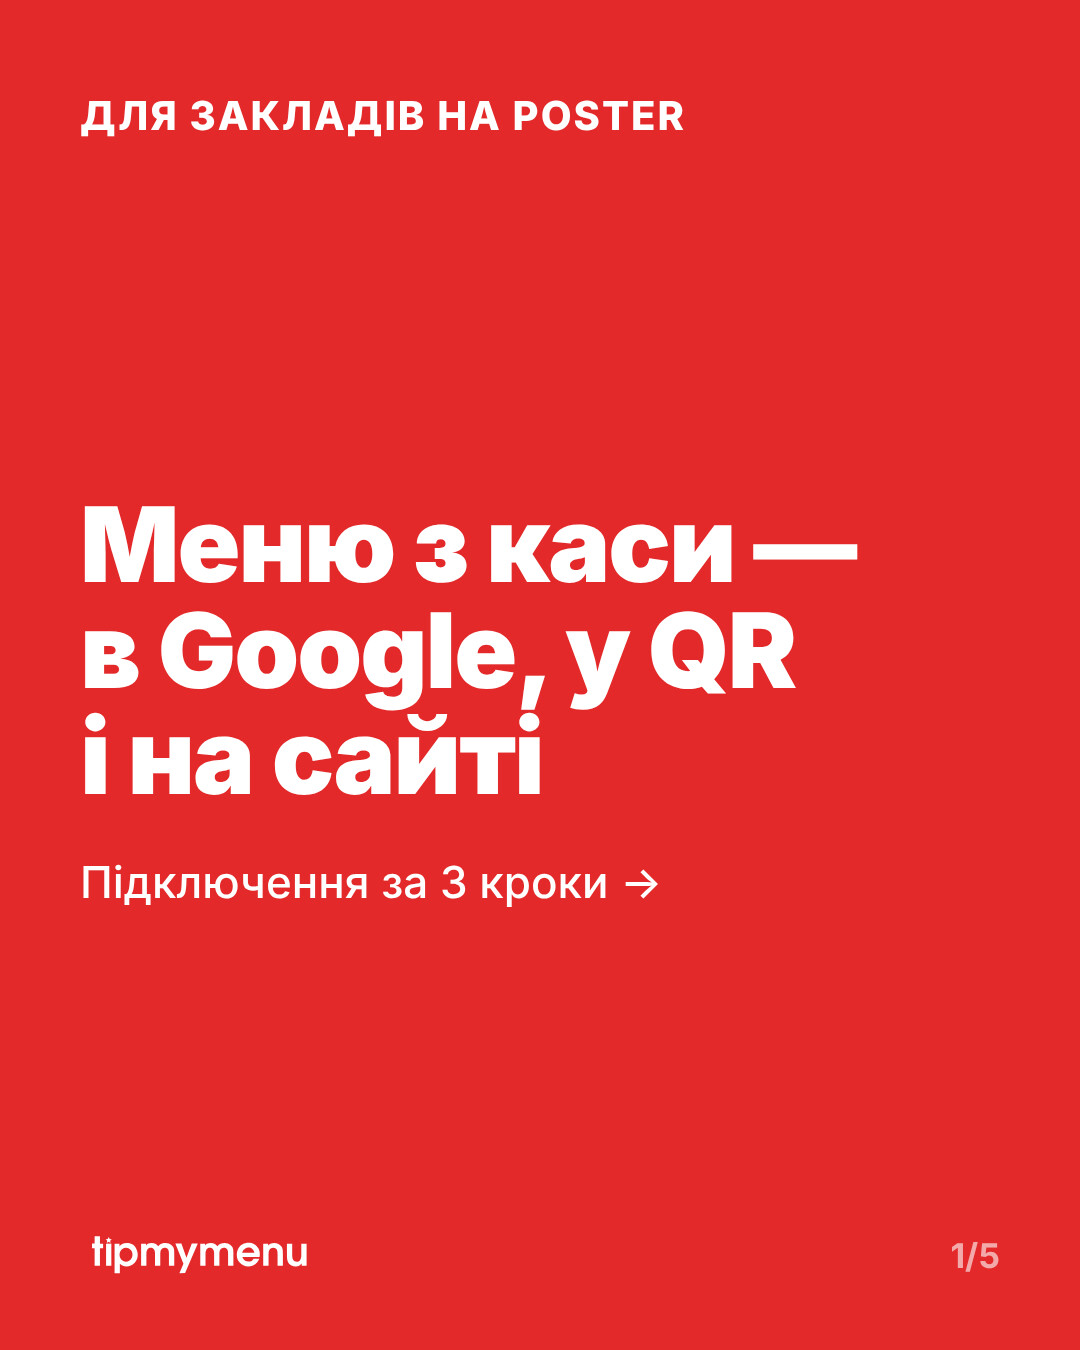
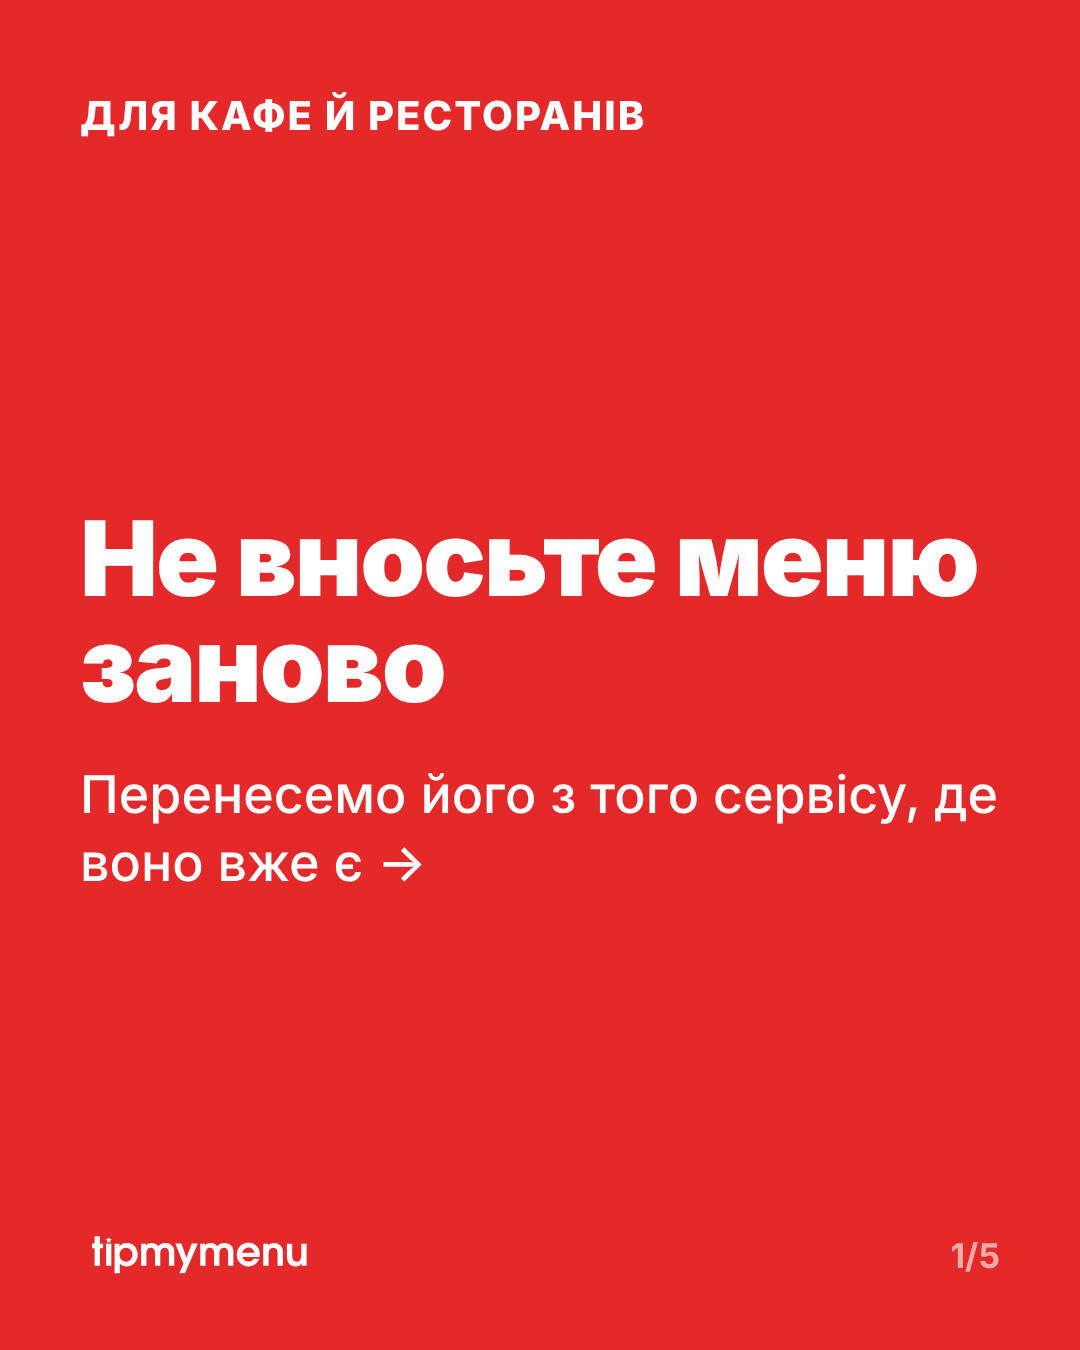
SMM: прибрано згадки Poster (застосунок ще не опубліковано) з постів 2.12, 15.12, 17.12
Claude-Session: https://claude.ai/code/session_013CniVCPpoLK9J42wSgnD7D

Changed region(s): [[0.0611, 0.3733, 0.9167, 0.6844], [0.1833, 0.0622, 0.6417, 0.1244], [0.5806, 0.6533, 0.6111, 0.6844]]

diff --git a/smm/media/2026-12/src/slides-w3.html b/smm/media/2026-12/src/slides-w3.html
@@ -38,15 +38,15 @@ ul{list-style:none;padding:0}li{font-size:46px;font-weight:600;margin:0 0 30px;l
 <div class="s d" id="w3-15-1"><p class="yel" style="font-weight:800;font-size:40px;letter-spacing:2px">ДЛЯ КАФЕ Й РЕСТОРАНІВ</p><div style="margin:auto 0"><h1>3 міфи про QR&#8209;меню</h1><p style="margin-top:44px;opacity:.85">через які заклади досі друкують меню, що застаріває за місяць&nbsp;→</p></div><img class="logo" src="site_logo.svg"><div class="n">1/5</div></div>
 <div class="s w" id="w3-15-2"><p class="red" style="font-size:52px;font-weight:900">❌ Міф 1</p><h2 style="margin-top:20px">«Гостям треба ставити застосунок»</h2><p class="yel" style="font-size:52px;font-weight:900;margin-top:90px;color:#1a7f37">✅ Насправді</p><p style="margin-top:20px;font-size:50px">Гість наводить камеру телефона на QR — і одразу бачить меню з фото й цінами. Без застосунків.</p><img class="logo" src="site_logo_dark.svg"><div class="n">2/5</div></div>
 <div class="s w" id="w3-15-3"><p class="red" style="font-size:52px;font-weight:900">❌ Міф 2</p><h2 style="margin-top:20px">«Це дорого»</h2><p style="font-size:52px;font-weight:900;margin-top:90px;color:#1a7f37">✅ Насправді</p><p style="margin-top:20px;font-size:50px">На TipMyMenu QR-меню безкоштовне. Табличку A6 для друку і наліпку «Ми на TipMyMenu» беріть у кабінеті.</p><img class="logo" src="site_logo_dark.svg"><div class="n">3/5</div></div>
-<div class="s w" id="w3-15-4"><p class="red" style="font-size:52px;font-weight:900">❌ Міф 3</p><h2 style="margin-top:20px">«Ціни все одно застаріють»</h2><p style="font-size:52px;font-weight:900;margin-top:90px;color:#1a7f37">✅ Насправді</p><p style="margin-top:20px;font-size:50px">Якщо ви працюєте в Poster — меню оновлюється з каси само: страви, ціни, фото. Стоп-лист можна вести з Telegram-бота.</p><img class="logo" src="site_logo_dark.svg"><div class="n">4/5</div></div>
+<div class="s w" id="w3-15-4"><p class="red" style="font-size:52px;font-weight:900">❌ Міф 3</p><h2 style="margin-top:20px">«Ціни все одно застаріють»</h2><p style="font-size:52px;font-weight:900;margin-top:90px;color:#1a7f37">✅ Насправді</p><p style="margin-top:20px;font-size:50px">Змінили ціну чи додали страву в кабінеті — оновилось усюди: на сторінці закладу, у QR-меню і на вашому сайті.</p><img class="logo" src="site_logo_dark.svg"><div class="n">4/5</div></div>
 <div class="s y" id="w3-15-5" style="justify-content:center"><h1 style="font-size:96px">Завантажте свій QR безкоштовно</h1><p style="margin:44px 0 60px">Сторінка закладу, QR на столи, меню для сайту і Google Maps</p><span class="pill" style="align-self:flex-start;font-size:38px">tipmymenu.com/uk/restaurants/about</span><img class="logo" src="site_logo_dark.svg"><div class="n">5/5</div></div>
 
-<!-- 17.12 Poster -->
-<div class="s r" id="w3-17-1"><p style="font-weight:800;font-size:40px;letter-spacing:2px">ДЛЯ ЗАКЛАДІВ НА POSTER</p><div style="margin:auto 0"><h1>Меню з&nbsp;каси — в&nbsp;Google, у&nbsp;QR і&nbsp;на&nbsp;сайті</h1><p style="margin-top:44px">Підключення за 3 кроки&nbsp;→</p></div><img class="logo" src="site_logo.svg"><div class="n">1/5</div></div>
-<div class="s y" id="w3-17-2"><div class="step">1</div><h2>Poster → Застосунки → TipMyMenu → «Встановити»</h2><p style="margin-top:30px">Дозвольте доступ до меню. Якщо закладів кілька — оберіть точку продажу.</p><img class="logo" src="site_logo_dark.svg"><div class="n">2/5</div></div>
-<div class="s y" id="w3-17-3"><div class="step">2</div><h2>Вкажіть назву, місто і&nbsp;телефон або Telegram</h2><p style="margin-top:30px">Протягом робочого дня ми створимо сторінку закладу з меню з каси й напишемо вам.</p><p style="margin-top:50px;font-size:38px;opacity:.75">Вже є сторінка на TipMyMenu? Кабінет → «Каса Poster» → «Підключити Poster».</p><img class="logo" src="site_logo_dark.svg"><div class="n">3/5</div></div>
-<div class="s y" id="w3-17-4"><div class="step">3</div><h2>Далі меню оновлюється саме</h2><ul style="margin-top:50px"><li>🆕 нові страви й фото</li><li>💸 змінені ціни</li><li>🙈 приховані позиції</li><li>🤖 стоп-лист — з Telegram-бота</li></ul><img class="logo" src="site_logo_dark.svg"><div class="n">4/5</div></div>
-<div class="s d" id="w3-17-5" style="justify-content:center"><h2 class="yel">Безпечно для каси</h2><p style="margin:36px 0 70px;font-size:48px">Застосунок лише читає меню й точки продажу. Замовлення, гроші й клієнтів не бачить і нічого в Poster не змінює.</p><span class="pill" style="align-self:flex-start;background:#ffb80e;color:#2b2a26;font-size:38px">tipmymenu.com/uk/restaurants/about</span><img class="logo" src="site_logo.svg"><div class="n">5/5</div></div>
+<!-- 17.12 перенесення меню -->
+<div class="s r" id="w3-17-1"><p style="font-weight:800;font-size:40px;letter-spacing:2px">ДЛЯ КАФЕ Й РЕСТОРАНІВ</p><div style="margin:auto 0"><h1>Не вносьте меню заново</h1><p style="margin-top:44px;font-size:52px">Перенесемо його з того сервісу, де воно вже є&nbsp;→</p></div><img class="logo" src="site_logo.svg"><div class="n">1/5</div></div>
+<div class="s y" id="w3-17-2"><div class="step">1</div><h2>Меню вже є в Expirenza, ChoiceQR, RestoApp чи&nbsp;ps.me?</h2><p style="margin-top:30px">Скопіюйте посилання на нього.</p><img class="logo" src="site_logo_dark.svg"><div class="n">2/5</div></div>
+<div class="s y" id="w3-17-3"><div class="step">2</div><h2>Вставте його в кабінеті TipMyMenu</h2><p style="margin-top:30px">Поле «Посилання на меню» — і бот візьме звідти страви, фото й ціни.</p><div class="ui"><p style="font-size:34px;opacity:.6;margin-bottom:16px">Посилання на меню</p><div class="hl" style="font-size:36px;word-break:break-all">https://expz.menu/…</div></div><img class="logo" src="site_logo_dark.svg"><div class="n">3/5</div></div>
+<div class="s y" id="w3-17-4"><div class="step">3</div><h2>Отримайте безкоштовно</h2><ul style="margin-top:50px"><li>🔎 сторінку закладу, яку знаходять у Google</li><li>📱 QR-меню на столи</li><li>💻 код меню для вашого сайту</li><li>📍 посилання для кнопки «Меню» в Google Maps</li></ul><img class="logo" src="site_logo_dark.svg"><div class="n">4/5</div></div>
+<div class="s d" id="w3-17-5" style="justify-content:center"><h2 class="yel">Меню ще немає ніде?</h2><p style="margin:36px 0 70px;font-size:48px">Додайте страви в кабінеті вручну — або напишіть нам, допоможемо.</p><span class="pill" style="align-self:flex-start;background:#ffb80e;color:#2b2a26;font-size:38px">tipmymenu.com/uk/restaurants/about</span><img class="logo" src="site_logo.svg"><div class="n">5/5</div></div>
 
 <!-- 18.12 українські 5,0 -->
 <div class="s" id="w3-18-1"><img class="photo" src="w3/deruny.jpg"><div class="shade"></div><div class="cap"><span class="tag">Київ · оцінки гостей</span><h1 style="color:#fff">5 українських страв з&nbsp;оцінкою 5,0&nbsp;⭐</h1><p style="margin-top:24px">План на вихідні&nbsp;→</p></div><img class="logo" src="site_logo.svg"><div class="n" style="color:#fff">1/5</div></div>

diff --git a/smm/media/2026-12/src/slides.html b/smm/media/2026-12/src/slides.html
@@ -28,7 +28,7 @@ ul{list-style:none;padding:0}li{font-size:46px;font-weight:600;margin:0 0 30px;l
 <div class="s d" id="p2s1"><p class="yel" style="font-weight:800;font-size:40px;letter-spacing:2px">ДЛЯ КАФЕ Й РЕСТОРАНІВ</p><div style="margin:auto 0"><h1>Ваше меню в&nbsp;Google — <span class="yel">безкоштовно</span></h1><p style="margin-top:50px;opacity:.85">Сторінка закладу · QR-меню на столи · меню для сайту</p></div><img class="logo" src="site_logo.svg"><div class="n">1/4</div></div>
 <div class="s y" id="p2s2" style="padding-bottom:0"><h2>Сторінка з меню, яку знаходять у&nbsp;Google</h2><p style="margin:24px 0 44px;font-size:40px">За назвою закладу і за стравами</p><div class="phone" style="width:640px;margin:0 auto;border-bottom:0;border-radius:64px 64px 0 0"><img src="venue-top.png"></div></div>
 <div class="s w" id="p2s3"><h2>QR-меню на&nbsp;столи</h2><p style="margin:30px 0 0">Гість наводить камеру — і бачить страви з фото й цінами. Без застосунків і без оплати.</p><div style="display:flex;gap:50px;align-items:center;margin-top:auto;margin-bottom:110px"><img src="qr.png" style="width:360px;border:14px solid #ffb80e;border-radius:28px"><ul><li>🖨 табличка A6 для друку</li><li>🏷 наліпка «Ми на TipMyMenu»</li><li>📍 кнопка «Меню» в Google Maps</li></ul></div><img class="logo" src="site_logo_dark.svg"><div class="n">3/4</div></div>
-<div class="s r" id="p2s4"><div style="margin:auto 0"><h1 style="font-size:92px">Працюєте в&nbsp;Poster?</h1><p style="margin:44px 0 70px;font-size:48px">Страви, ціни й фото підтягуються з каси самі. Змінили ціну в Poster — вона змінилась всюди.</p><span class="pill" style="font-size:38px">tipmymenu.com/uk/restaurants/about</span></div><img class="logo" src="site_logo.svg"><div class="n">4/4</div></div>
+<div class="s r" id="p2s4"><div style="margin:auto 0"><h1 style="font-size:84px">Меню вже є в&nbsp;Expirenza, ChoiceQR, RestoApp чи&nbsp;ps.me?</h1><p style="margin:44px 0 70px;font-size:48px">Вкажіть посилання в кабінеті — бот перенесе страви, фото й ціни. Не треба вносити все заново.</p><span class="pill" style="font-size:38px">tipmymenu.com/uk/restaurants/about</span></div><img class="logo" src="site_logo.svg"><div class="n">4/4</div></div>
 
 <!-- P4 -->
 <div class="s" id="p4" style="padding:0;flex-direction:row"><div style="flex:1;background:#ffb80e;display:flex;flex-direction:column;align-items:center;justify-content:center"><div style="font-size:300px">🍔</div><h2 style="margin-top:30px">Бургер</h2><p style="font-size:60px;font-weight:900">~288 ₴</p></div><div style="flex:1;background:#e32929;color:#fff;display:flex;flex-direction:column;align-items:center;justify-content:center"><div style="font-size:300px">🍕</div><h2 style="margin-top:30px">Піца</h2><p style="font-size:60px;font-weight:900">~250 ₴</p></div><div style="position:absolute;left:50%;top:50%;transform:translate(-50%,-50%);width:200px;height:200px;border-radius:50%;background:#2b2a26;color:#fff;font-size:80px;font-weight:900;display:flex;align-items:center;justify-content:center">VS</div><div style="position:absolute;top:80px;width:100%;text-align:center"><h2 style="font-size:64px;color:#2b2a26;background:#fff;display:inline-block;padding:16px 40px;border-radius:60px">П'ятниця. Обирай 👇</h2></div><div style="position:absolute;bottom:60px;width:100%;text-align:center;font-size:32px;font-weight:700;color:#fff;text-shadow:0 2px 8px rgba(0,0,0,.4)">звичайна ціна в Києві · tipmymenu.com</div></div>
